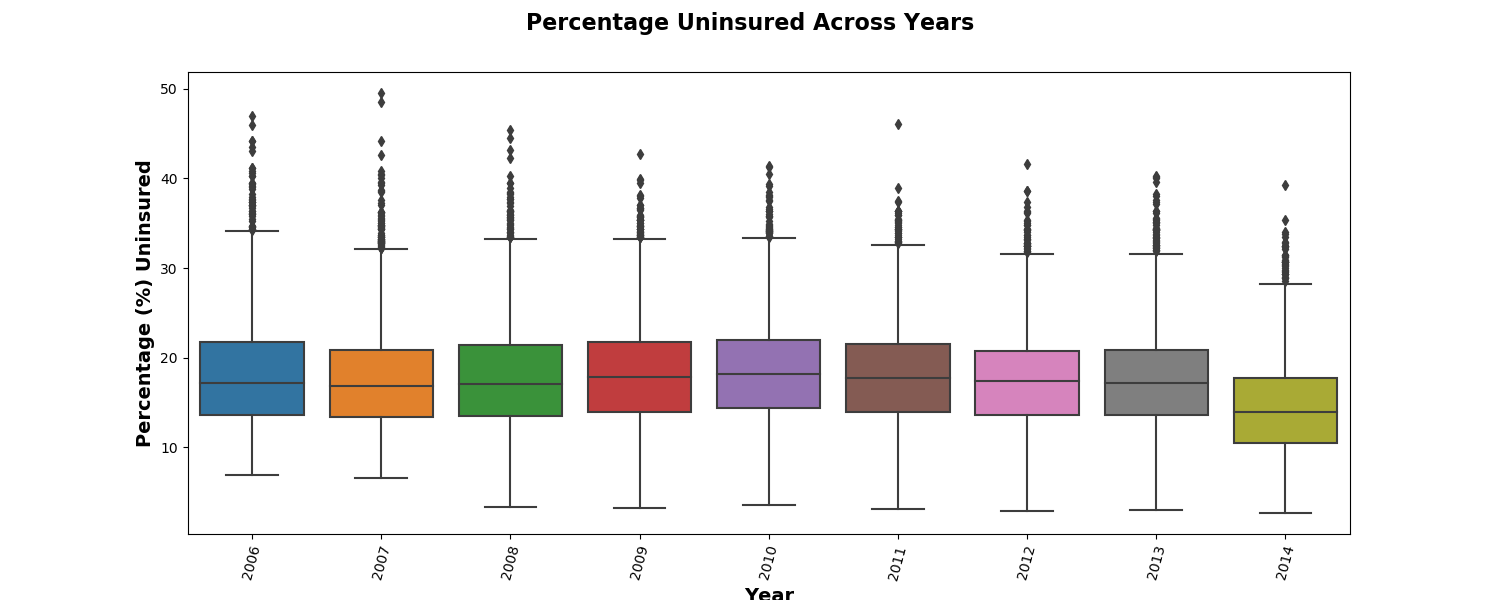
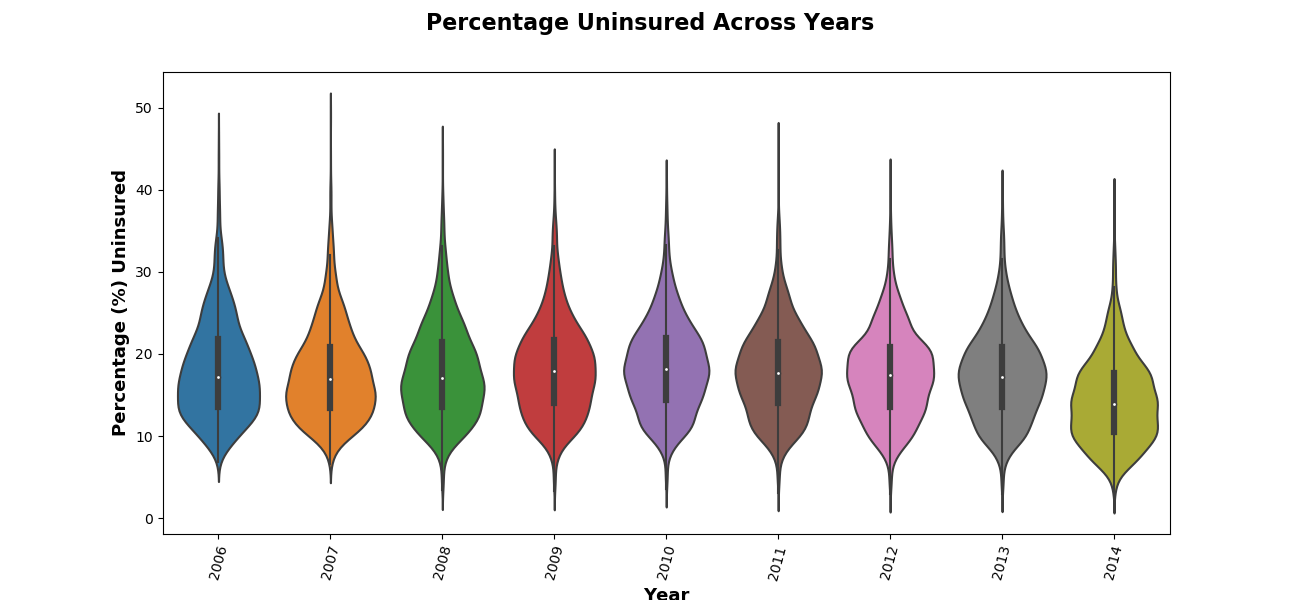
Add Tukey HSD that pass significance level

diff --git a/health_analyis.py b/health_analyis.py
@@ -9,6 +9,8 @@ import scipy.stats as stats
 from sklearn.linear_model import Lasso, LinearRegression
 from sklearn.model_selection import train_test_split
 from sklearn.metrics import mean_squared_error
+import os,sys
+import pymc3 as pm
 
 
 def format_excel(filepath):
@@ -171,7 +173,7 @@ def replace_nans(data):
 
 
 def distribution_plot(df, column_name, target_column, xlab, ylab, title, filename, plot_type="box", order=None):
-    fig = plt.figure(figsize=(15,6))
+    fig = plt.figure(figsize=(13,6))
     ax = fig.add_subplot(111)
     if plot_type == "box":
         ax = sns.boxplot(df[column_name], df[target_column], order=order)
@@ -179,8 +181,8 @@ def distribution_plot(df, column_name, target_column, xlab, ylab, title, filenam
         ax = sns.violinplot(df[column_name], df[target_column])
     elif plot_type == "bar":
         ax = sns.barplot(df[column_name], df[target_column], palette="Greens_d", order=order)
-    ax.set_xlabel(xlab, fontweight="bold", fontsize=14)
-    ax.set_ylabel(ylab, fontweight="bold", fontsize=14)
+    ax.set_xlabel(xlab, fontweight="bold", fontsize=13)
+    ax.set_ylabel(ylab, fontweight="bold", fontsize=13)
     plt.xticks(rotation=75)
     plt.suptitle(title, fontweight="bold", fontsize=16)
     plt.savefig(filename)
@@ -253,7 +255,7 @@ if __name__ == "__main__":
     #===========================================================================
     #=============== VISUALIZATION, EDA & HYPOTHESIS TESTING ===================
     #===========================================================================
-    #
+
     heatmap(sahie, "figures/heatmap")
 
     descending_uninssured = list(sahie.groupby("state").mean().sort_values('Uninsured: %', ascending=False).index)
@@ -262,24 +264,19 @@ if __name__ == "__main__":
 
     distribution_plot(sahie, 'state', 'Uninsured: %', 'State', "Percentage (%) Uninsured", "Ordered Percentage Uninsured Across States", plot_type="bar", filename="figures/state_vs_uninsured_bar", order=descending_uninssured)
 
-    distribution_plot(sahie, "Year", "Uninsured: %", "Year", "Percentage (%) Uninsured", "Percentage Uninsured Across Years", filename="figures/year_vs_uninsured")
+    distribution_plot(sahie, "Year", "Uninsured: %", "Year", "Percentage (%) Uninsured", "Percentage Uninsured Across Years", plot_type="violin", filename="figures/year_vs_uninsured")
 
     # create csv for anova in R
     df = sahie[['state','Year','Uninsured: %']]
     df.to_csv("/Users/marsh/galvanize/dsi/projects/health_capstone/anova.csv")
     f, p = ANOVA(df, "Year", "Uninsured: %")
-    print(f"\nF-Statistic: {f}\nP-Value: {p}")
-
-
-
 
     #===========================================================================
     #=============================== MODELING ==================================
     #===========================================================================
-    numerics = medicare[list(medicare.select_dtypes(include=['float64','int64']).columns)]
-    X = numerics.drop("cost_per_beneficiary", axis=1)
-    y = medicare["cost_per_beneficiary"]
-    x_train, x_test, y_train, y_test = train_test_split(X, y)
+    simple_x = medicare[['ma_participation_rate','actual_per_capita_costs']]
+    simple_y = medicare['cost_per_beneficiary']
+    x_train, x_test, y_train, y_test = train_test_split(simple_x, simple_y)
 
     # will use multiple linear regression as benchmark for future models
     lm = LinearRegression()
@@ -288,4 +285,19 @@ if __name__ == "__main__":
     linear_regression_rmse = m.sqrt(mean_squared_error(y_train, linear_predictions))
     print("\nThe training RMSE using multiple linear regression is {}".format(linear_regression_rmse))
 
-    lassie = Lasso()
+    # test_preds = lm.predict(x_test)
+    # test_rmse = m.sqrt(mean_squared_error(y_test, test_preds))
+    # print("\nThe testing RMSE using multiple linear regression is {}".format(test_rmse))
+
+
+    #===========================================================================
+    #================================== PyMC ===================================
+    #===========================================================================
+    medicare.corr()['cost_per_beneficiary'].sort_values(ascending=False)
+    medicare.corr()['actual_per_capita_costs'].sort_values(ascending=False)['ma_participation_rate']
+
+
+
+    with pm.Model() as model:
+        
+        beta_1 = pm.Uniform("beta_1",)

diff --git a/Predicting_Health_Costs.md b/Predicting_Health_Costs.md
@@ -64,6 +64,30 @@ Balanced one-way analysis of variance power calculation
           power = 0.9999999
 ```
 
+Looking further at *which* years have a significant difference, we get the following.
+
+```
+2014-2006       0.000000e+00  
+2014-2007       0.000000e+00  
+2014-2008       0.000000e+00  
+2014-2009       0.000000e+00  
+2014-2010       0.000000e+00  
+2014-2011       0.000000e+00  
+2014-2012       0.000000e+00  
+2014-2013       0.000000e+00  
+2013-2010       3.320018e-10  
+2012-2010       5.573403e-10  
+2010-2007       6.386250e-07  
+2013-2009       3.482696e-05  
+2012-2009       5.065515e-05  
+2013-2006       8.212339e-05  
+2012-2006       1.178423e-04  
+2010-2008       3.270694e-04  
+2011-2010       5.093999e-03  
+2009-2007       6.502273e-03  
+2007-2006       1.220040e-02 
+```
+
 When the theory doesn't fit the data, *we let the theory go*, therefore rejecting out null hypothesis and accepting the alternative.
 
 #### Question
